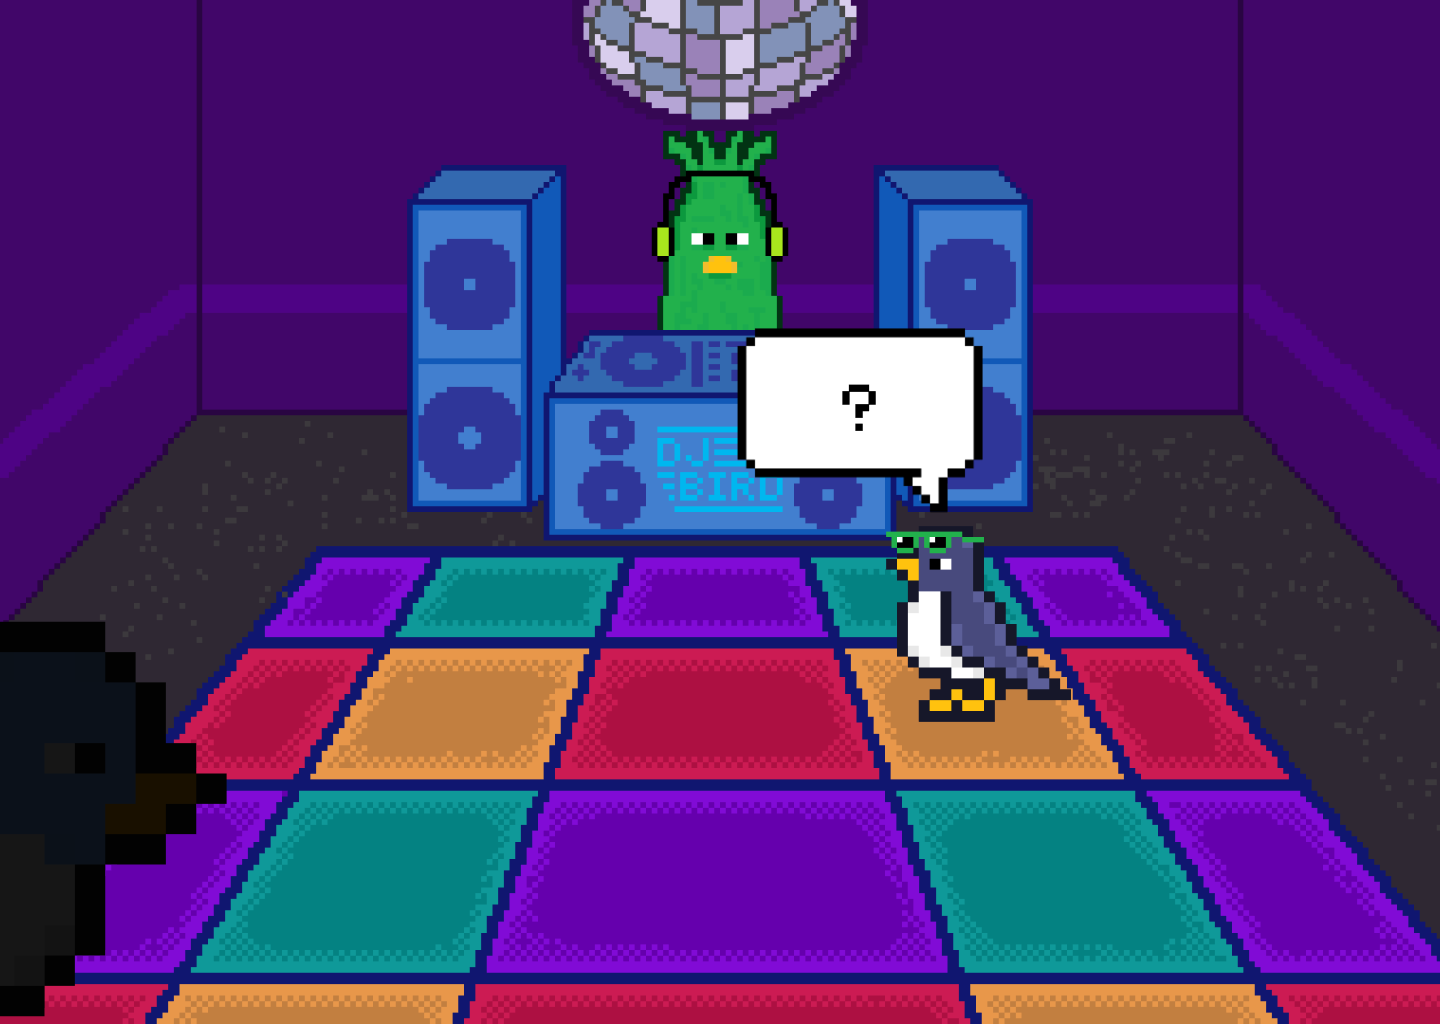
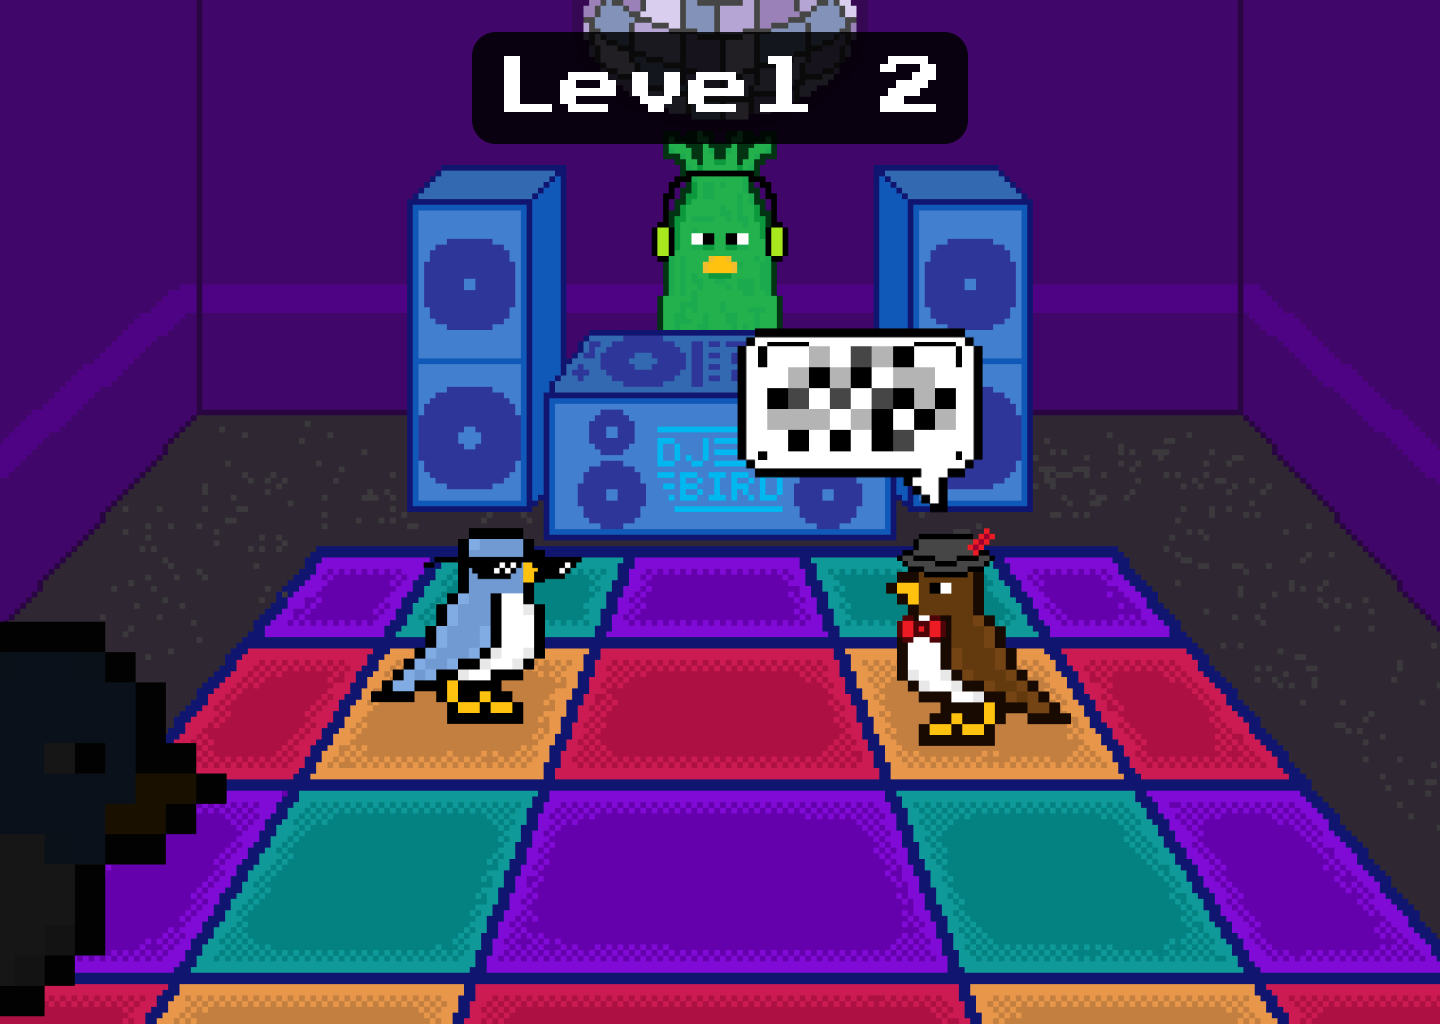
level 2 works lol

diff --git a/public/game-logic.js b/public/game-logic.js
@@ -125,11 +125,10 @@ function handleDirectionGameKeyPress(keyCode) {
 }
 
 // Draw the direction game
-function drawDirectionGame() {
+function drawDirectionGame(background, winningImage, level) {
   // Draw background and title
   imageMode(CORNER);
-  image(assets.backgrounds.play1, 0, 0, 720, 513);
-  titleComponent(assets.signs.level, 196, 48);
+  image(background, 0, 0, 720, 513);
 
   // Calculate time remaining
   let timeElapsed = millis() - gameStartTime;
@@ -154,7 +153,7 @@ function drawDirectionGame() {
   if (playerWon) {
     // Player completed level 1 successfully
     imageMode(CORNER);
-    image(assets.backgrounds.win, 0, 0, 720, 513);
+    image(winningImage, 0, 0, 720, 513);
     lvl1Button.draw();
     drawMeter(assets.meter.meter5);
     rightInput = 0;
@@ -216,5 +215,13 @@ function drawDirectionGame() {
 
 function drawLevel2Screen() {
   imageMode(CORNER);
-  image(assets.backgrounds.play2, 0, 0, 720, 513);
+  image(assets.backgrounds.forest, 0, 0, 720, 513);
+  instructionSizing(assets.instructions.level2);
+  nextButton.draw();
+
+  if (instructionCounter === 2) {
+    imageMode(CORNER);
+    image(assets.backgrounds.play2, 0, 0, 720, 513);
+    drawDirectionGame(assets.backgrounds.play2, assets.backgrounds.win2, 2);
+  }
 }

diff --git a/public/sketch.js b/public/sketch.js
@@ -196,7 +196,7 @@ function drawMaleBirdScreen() {
     }
 
     // Draw direction game
-    drawDirectionGame();
+    drawDirectionGame(assets.backgrounds.play1, assets.backgrounds.win, 1);
     return;
   }
 }
@@ -281,6 +281,10 @@ function mousePressed() {
 
   if (gameState === "INSTRUCTION" && nextButton.isClicked()) {
     instructionCounter++;
+  }
+
+  if (gameState === "LEVEL 2" && nextButton.isClicked()) {
+    instructionCounter = 2;
   }
 
   if (playerWon && gameState === "PLAY" && lvl1Button.isClicked()) {
@@ -408,12 +412,7 @@ function resetGame() {
 // Add keyPressed function to handle keyboard input
 function keyPressed() {
   // Only process key events for the direction game
-  if (
-    gameState === "PLAY" &&
-    selectedRole === "MALE_BIRD" &&
-    final &&
-    directionGameActive
-  ) {
+  if (selectedRole === "MALE_BIRD") {
     handleDirectionGameKeyPress(keyCode);
   }
 

diff --git a/public/assets.js b/public/assets.js
@@ -51,6 +51,7 @@ function preloadAssets() {
   assets.backgrounds.forest = loadImage("assets/images/forest.png");
   assets.backgrounds.wingman = loadImage("assets/images/level1-wingman.png");
   assets.backgrounds.win = loadImage("assets/images/win.png");
+  assets.backgrounds.win2 = loadImage("assets/images/win2.png");
   assets.backgrounds.lose = loadImage("assets/images/lose.png");
   assets.backgrounds.play1 = loadImage("assets/images/lvl1background.png");
   assets.backgrounds.play2 = loadImage("assets/images/lvl2background.png");
